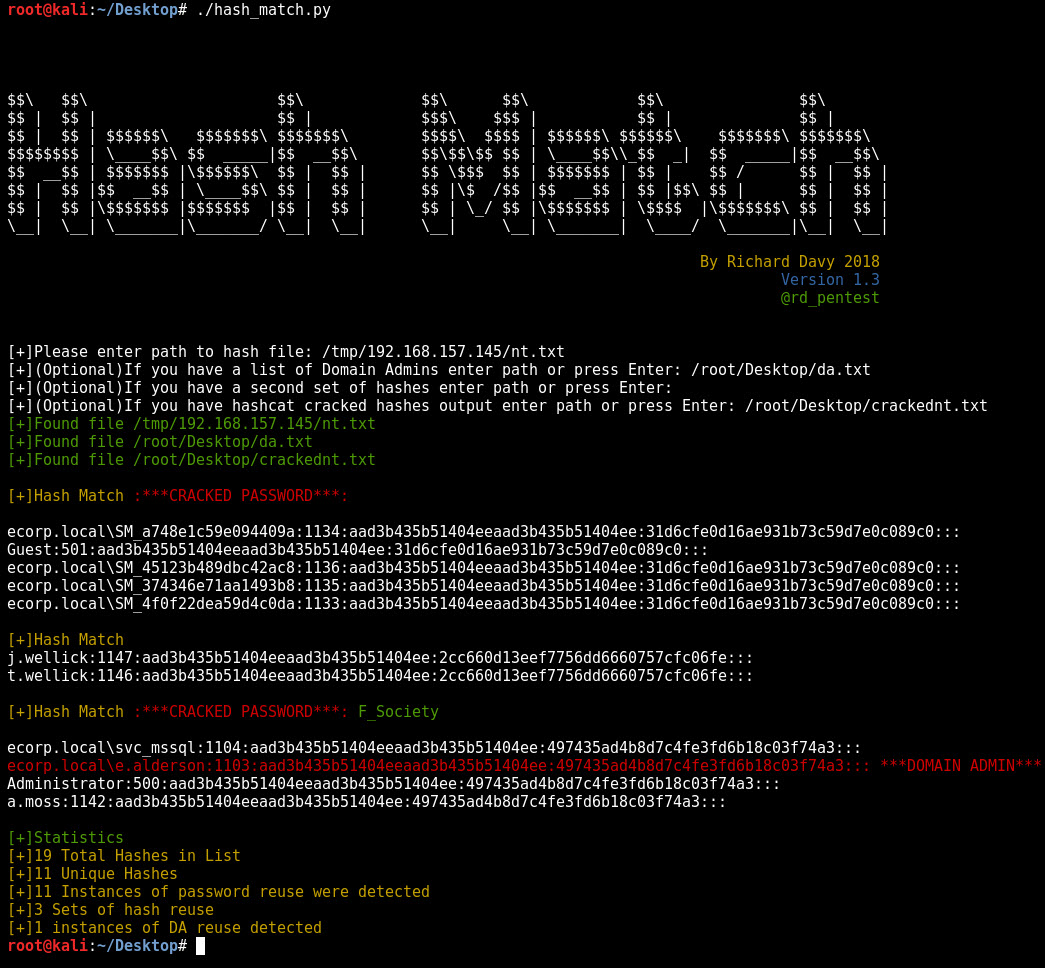
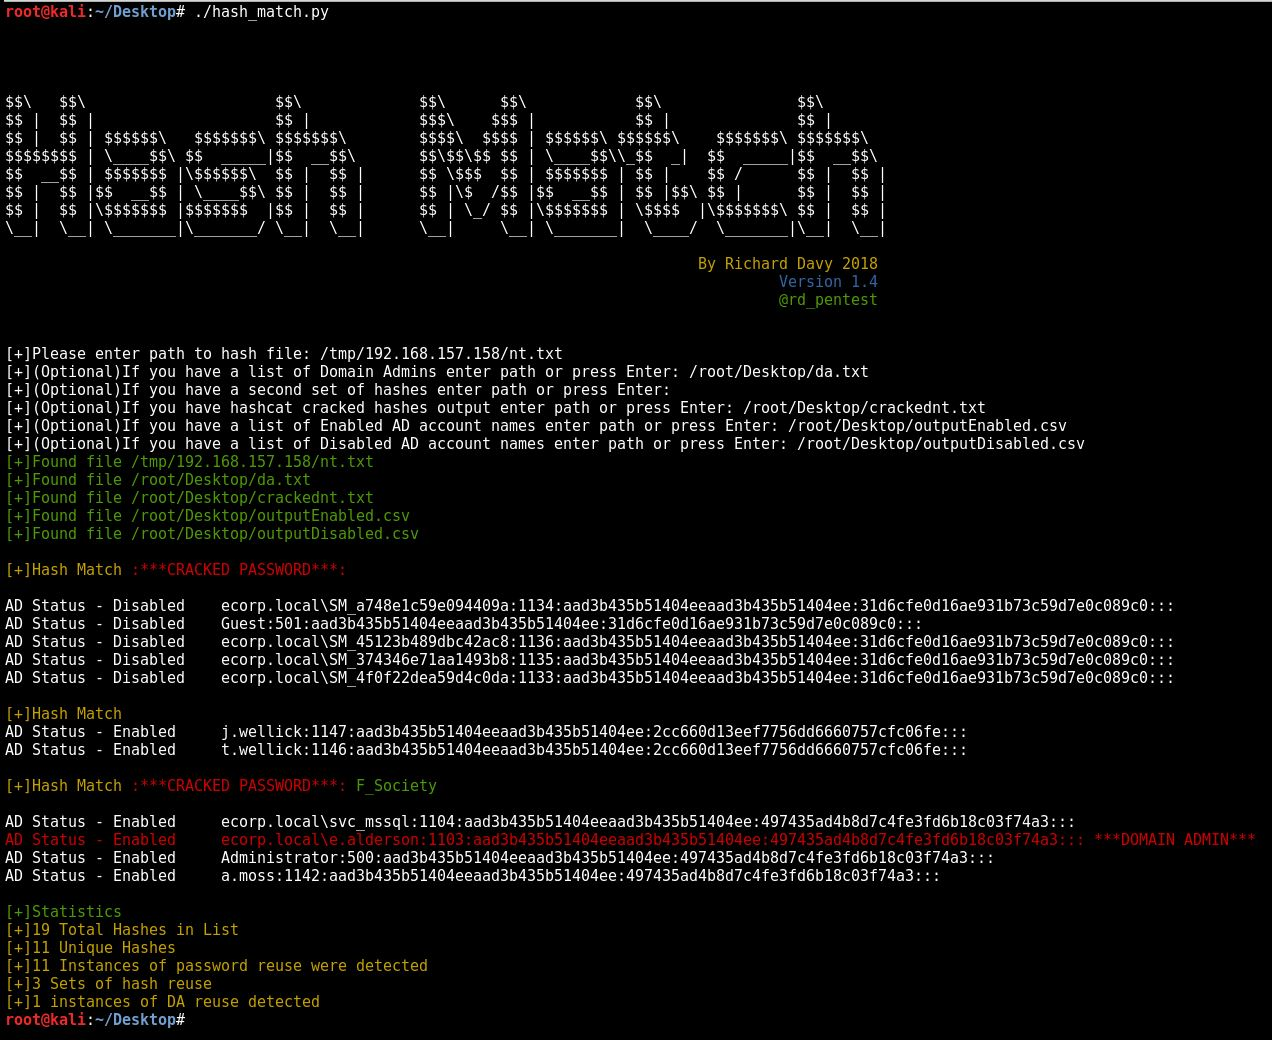
Minor Update

Changed region(s): [[0.0, 0.3099, 1.0, 0.9917], [0.0, 0.093, 0.8574, 0.3099], [0.0, 0.0, 0.3368, 0.031]]

diff --git a/hash_match.py b/hash_match.py
@@ -1,4 +1,14 @@
 #! /usr/bin/python
+
+# Simple way to get Enabled/Disabled AD users
+# Import-Module activedirectory
+#
+# Disabled Users
+# Get-Aduser -Filter 'Enabled -eq $false' -Properties *|select SamAccountName |export-csv C:\outputDisabled.csv
+#
+# Enables Users
+# Get-Aduser -Filter 'Enabled -eq $true' -Properties *|select SamAccountName  |export-csv C:\outputEnabled.csv
+
 import os,sys,re
 
 try:
@@ -18,6 +28,8 @@ hash_sets=[]
 da_reuse=[]
 da_list=[]
 dirty=""
+enabled=[]
+disabled=[]
 
 #Print the banner out
 print "\n\n"
@@ -32,7 +44,7 @@ $$ |  $$ |\$$$$$$$ |$$$$$$$  |$$ |  $$ |      $$ | \_/ $$ |\$$$$$$$ | \$$$$  |\$
 \__|  \__| \_______|\_______/ \__|  \__|      \__|     \__| \_______|  \____/  \_______|\__|  \__|
 """                                                                                         
 print colored("                                                                             By Richard Davy 2018",'yellow')
-print colored("                                                                                      Version 1.3",'blue')
+print colored("                                                                                      Version 1.4",'blue')
 print colored("                                                                                      @rd_pentest",'green')
 print "\n"                                                                                       
                                                                                                   
@@ -40,6 +52,8 @@ Hashes=raw_input("[+]Please enter path to hash file: ")
 DA_Path=raw_input("[+](Optional)If you have a list of Domain Admins enter path or press Enter: ")
 second_hash_list=raw_input("[+](Optional)If you have a second set of hashes enter path or press Enter: ")
 hashcat_path=raw_input("[+](Optional)If you have hashcat cracked hashes output enter path or press Enter: ")
+Enabled_Accounts=raw_input("[+](Optional)If you have a list of Enabled AD account names enter path or press Enter: ")
+Disabled_Accounts=raw_input("[+](Optional)If you have a list of Disabled AD account names enter path or press Enter: ")
 
 #Check if hashfile exists and if so open and add to list
 #any problems error out nicely
@@ -84,6 +98,36 @@ if os.path.exists(hashcat_path):
 			pwdump = pwdumpmatch.match(line)
 			if pwdump:
 				hashcat_output.append(line)
+
+#Check for enabled accounts file
+if os.path.exists(Enabled_Accounts):
+	print colored ("[+]Found file "+Enabled_Accounts,'green')
+	with open(Enabled_Accounts) as fp:
+		#Add account names to list
+		for line in fp:
+			if line.lstrip().rstrip().strip('"')!="SamAccountName" and line.lstrip().rstrip().strip('"') != "#TYPE Selected.Microsoft.ActiveDirectory.Management.ADUser":
+				enabled.append(line.lstrip().rstrip().strip('"'))
+
+	#Check account names against hash list and prefix hash list if found
+	for item in enabled:
+		for idx, usr in enumerate(hash_list):
+			if item in usr:
+				hash_list[idx]="AD Status - Enabled \t"+usr
+
+#Chck for disabled accounts file
+if os.path.exists(Disabled_Accounts):
+	print colored ("[+]Found file "+Disabled_Accounts,'green')
+	with open(Disabled_Accounts) as fp:
+		#Add account names to list
+		for line in fp:
+			if line.lstrip().rstrip().strip('"')!="SamAccountName" and line.lstrip().rstrip().strip('"') != "#TYPE Selected.Microsoft.ActiveDirectory.Management.ADUser":
+				disabled.append(line.lstrip().rstrip().strip('"'))
+
+	#Check account names against hash list and prefix hash list if found
+	for item in disabled:
+		for idx, usr in enumerate(hash_list):
+			if item in usr:
+				hash_list[idx]="AD Status - Disabled \t"+usr
 
 #Build a list of NT hashes and make unique
 for nt in hash_list:
@@ -166,5 +210,6 @@ print colored("[+]"+str(len(hash_list))+" Total Hashes in List",'yellow')
 print colored("[+]"+str(len(unique_nt))+" Unique Hashes",'yellow')
 print colored("[+]"+str(len(dup_hashes))+" Instances of password reuse were detected",'yellow')
 print colored("[+]"+str(len(hash_sets))+" Sets of hash reuse",'yellow')
+
 if len(da_list)>0:
 	print colored("[+]"+str(len(da_reuse))+" instances of DA reuse detected",'yellow')
